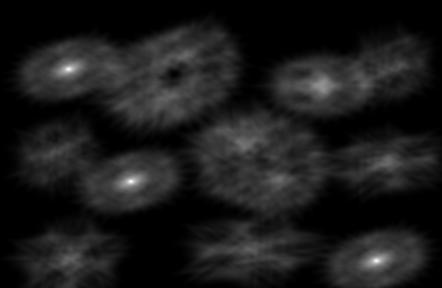
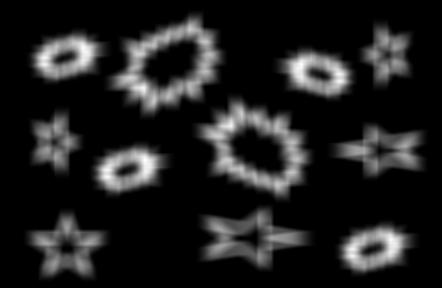
correlation working, using weight array filled with 1s. Committing before testing with pattern array.

diff --git a/correlation.py b/correlation.py
@@ -164,26 +164,26 @@ def mapValues(input_img_array: np.ndarray):
 #     [0, 0, 0, 0]
 # ])
 # print(mapValues(map_test_array))
+
 # #test correlation
-correlation_test_array = np.array([
-    [0, 1, 2],
-    [2, 1, 0],
-    [0, 1, 2]
-], dtype=np.uint8)
+# correlation_test_array = np.array([
+#     [0, 1, 2],
+#     [2, 1, 0],
+#     [0, 1, 2]
+# ], dtype=np.uint8)
 
-test_weights = np.array([
-    [1, 1, 1],
-    [1, 1, 1],
-    [1, 1, 1]
-], dtype=np.uint8)
+test_weights = np.ones((15, 15), dtype=np.uint8)
 
-correlated_test = correlation(input_img_array=correlation_test_array, weights=test_weights)
-print(correlated_test)
-# pattern_array = np.array(pattern, dtype=np.uint8)
-# zero_pattern = np.zeros((pattern_array.shape[1]-pattern_array.shape[0], pattern_array.shape[1]))
-# pattern_array = np.vstack((pattern_array, zero_pattern))
-# print(pattern_array.shape)
+#using pattern array for weights
+pattern_array = np.array(pattern, dtype=np.uint8)
+zero_pattern = np.zeros((pattern_array.shape[1]-pattern_array.shape[0], pattern_array.shape[1]))
+pattern_array = np.vstack((pattern_array, zero_pattern))
+print(pattern_array.shape)
 
-# correlated_image = correlation(image, pattern_array)
+image_array = np.array(image, dtype=np.uint8)
+correlated_image_array = correlation(image_array, test_weights)
 
-# correlated_image.save(f"{outfile_save_path}correlated_image.jpg")
+
+
+correlated_image = Image.fromarray(correlated_image_array)
+correlated_image.save(f"{outfile_save_path}correlated_image.jpg")
